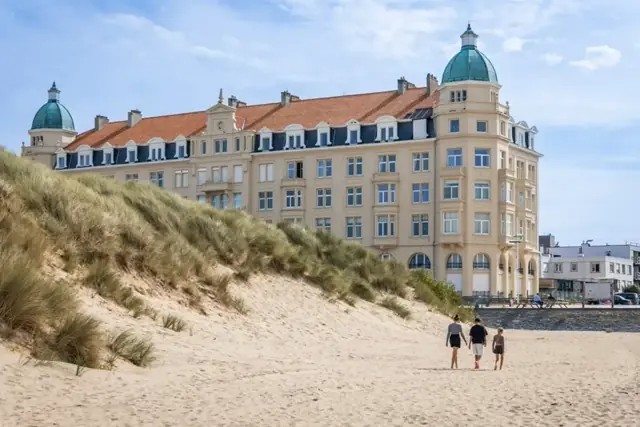
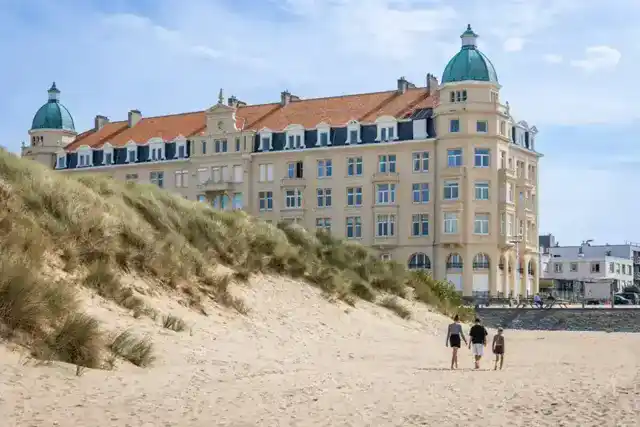
perf: compress images (-86 KiB), fix LCP render delay, eliminate forced reflows
- Compress lexi.webp: 132.9 -> 77.7 KiB (-55 KiB)
- Compress zeebrugge.webp: 59.6 -> 43.9 KiB (-16 KiB)
- Compress wenduine.webp: 48.5 -> 42.6 KiB (-6 KiB)
- Compress knokke.webp: 21.1 -> 11.5 KiB (-10 KiB)
- Regenerate 640w responsive variants from compressed sources
- Add static hero image shell in index.html for instant LCP rendering
  (eliminates 1850ms element render delay - image renders before JS executes)
- Cache hero geometry to avoid getBoundingClientRect on every scroll frame
  (eliminates 40ms+ forced reflow per parallax frame)

diff --git a/pages/Home.tsx b/pages/Home.tsx
@@ -131,20 +131,26 @@ const Home: React.FC = () => {
   const bgRef = useRef<HTMLDivElement>(null);
   const rafId = useRef<number>(0);
   const lastScrollY = useRef<number>(0);
+  // Cache hero geometry to avoid forced reflows on every scroll frame
   const cachedHeroHeight = useRef<number>(0);
+  const cachedHeroOffsetTop = useRef<number>(0);
 
   const handleParallax = useCallback(() => {
     if (!heroRef.current || !bgRef.current) return;
-    const rect = heroRef.current.getBoundingClientRect();
-    // Cache hero height to avoid repeated forced reflows
+    // Measure hero geometry only once (invalidated on resize)
     if (!cachedHeroHeight.current) {
-      cachedHeroHeight.current = heroRef.current.offsetHeight;
+      const rect = heroRef.current.getBoundingClientRect();
+      cachedHeroHeight.current = rect.height;
+      cachedHeroOffsetTop.current = rect.top + window.scrollY;
     }
     const heroHeight = cachedHeroHeight.current;
+    // Derive viewport-relative position from scroll without forcing reflow
+    const rectTop = cachedHeroOffsetTop.current - window.scrollY;
+    const rectBottom = rectTop + heroHeight;
     // Only animate when hero is in viewport
-    if (rect.bottom < 0 || rect.top > window.innerHeight) return;
+    if (rectBottom < 0 || rectTop > window.innerHeight) return;
     // Calculate scroll progress (0 at top, 1 when hero scrolled out)
-    const scrollProgress = -rect.top / heroHeight;
+    const scrollProgress = -rectTop / heroHeight;
     const translateY = scrollProgress * heroHeight * 0.35;
     const scale = 1 + scrollProgress * 0.08;
     bgRef.current.style.transform = `translate3d(0, ${translateY}px, 0) scale(${scale})`;
@@ -168,8 +174,8 @@ const Home: React.FC = () => {
 
     window.addEventListener('scroll', onScroll, { passive: true });
 
-    // Invalidate cached height on resize
-    const onResize = () => { cachedHeroHeight.current = 0; };
+    // Invalidate cached geometry on resize
+    const onResize = () => { cachedHeroHeight.current = 0; cachedHeroOffsetTop.current = 0; };
     window.addEventListener('resize', onResize, { passive: true });
 
     return () => {

diff --git a/index.html b/index.html
@@ -140,7 +140,13 @@
 </head>
 
 <body class="bg-slate-50 text-slate-900">
-    <div id="root"></div>
+    <div id="root">
+        <!-- Static hero shell for instant LCP - replaced by React on mount -->
+        <div style="position:relative;min-height:85vh;overflow:hidden;background:#0f172a">
+            <img src="/lexi.webp" alt="" style="position:absolute;inset:0;width:100%;height:100%;object-fit:cover;object-position:center 30%" width="1920" height="1080" fetchpriority="high" loading="eager" decoding="sync">
+            <div style="position:absolute;inset:0;background:rgba(15,23,42,0.6)"></div>
+        </div>
+    </div>
     <script type="module" src="/index.tsx"></script>
 </body>
 
